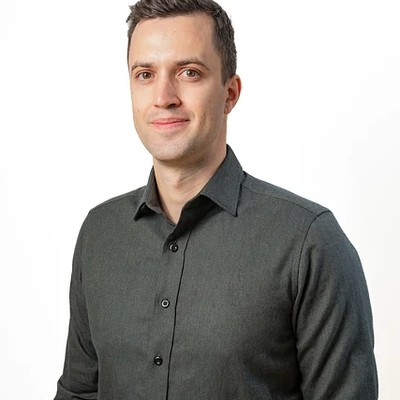
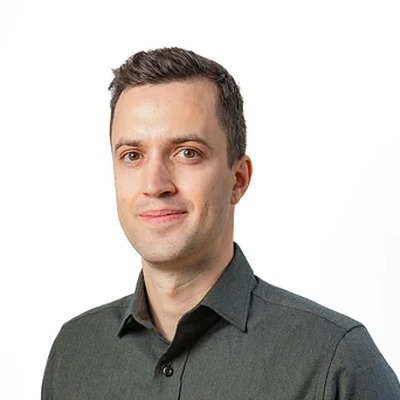
Tighter face crops for all speaker photos, fix Gabriel LinkedIn URL
Re-crop all photos to focus on faces for better display in circular
frames. Fix Gabriel Olariu LinkedIn URL to correct profile slug.

diff --git a/index.html b/index.html
@@ -102,7 +102,7 @@ footer{margin-top:clamp(1rem,2vw,2rem);font-size:.7rem;color:#999;text-align:cen
     <img src="img/gabriel-olariu.jpg" alt="Gabriel Olariu" width="120" height="120">
     <h2>Gabriel Olariu</h2>
     <p>Business Development Manager, Wolfpack Digital</p>
-    <a href="https://www.linkedin.com/in/gabriel-olariu/" target="_blank" rel="noopener">
+    <a href="https://www.linkedin.com/in/gabriel-o-93681b8a/" target="_blank" rel="noopener">
       <svg width="16" height="16" viewBox="0 0 24 24" fill="currentColor"><path d="M20.447 20.452h-3.554v-5.569c0-1.328-.027-3.037-1.852-3.037-1.853 0-2.136 1.445-2.136 2.939v5.667H9.351V9h3.414v1.561h.046c.477-.9 1.637-1.85 3.37-1.85 3.601 0 4.267 2.37 4.267 5.455v6.286zM5.337 7.433a2.062 2.062 0 01-2.063-2.065 2.064 2.064 0 112.063 2.065zm1.782 13.019H3.555V9h3.564v11.452zM22.225 0H1.771C.792 0 0 .774 0 1.729v20.542C0 23.227.792 24 1.771 24h20.451C23.2 24 24 23.227 24 22.271V1.729C24 .774 23.2 0 22.222 0h.003z"/></svg>
       Connect
     </a>
